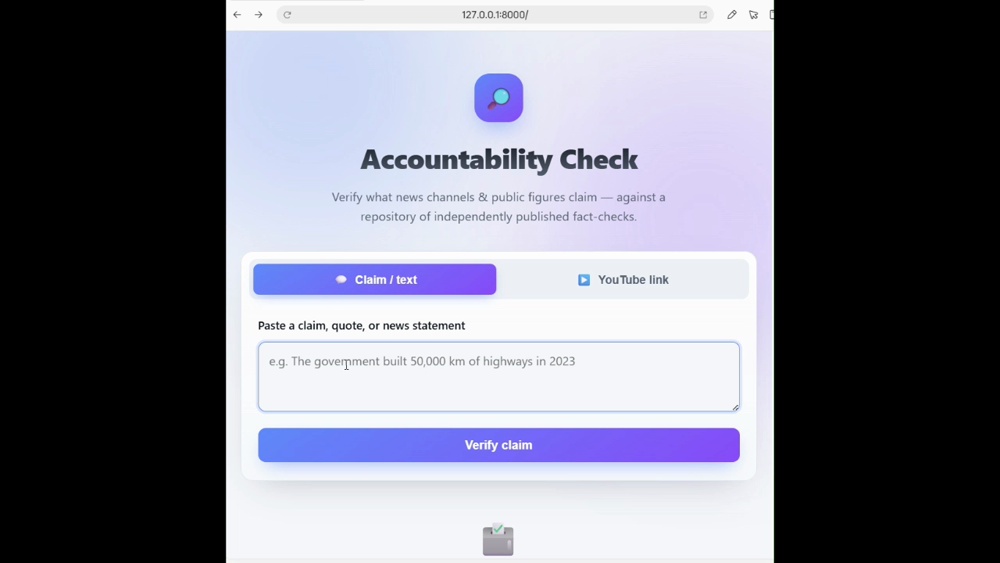
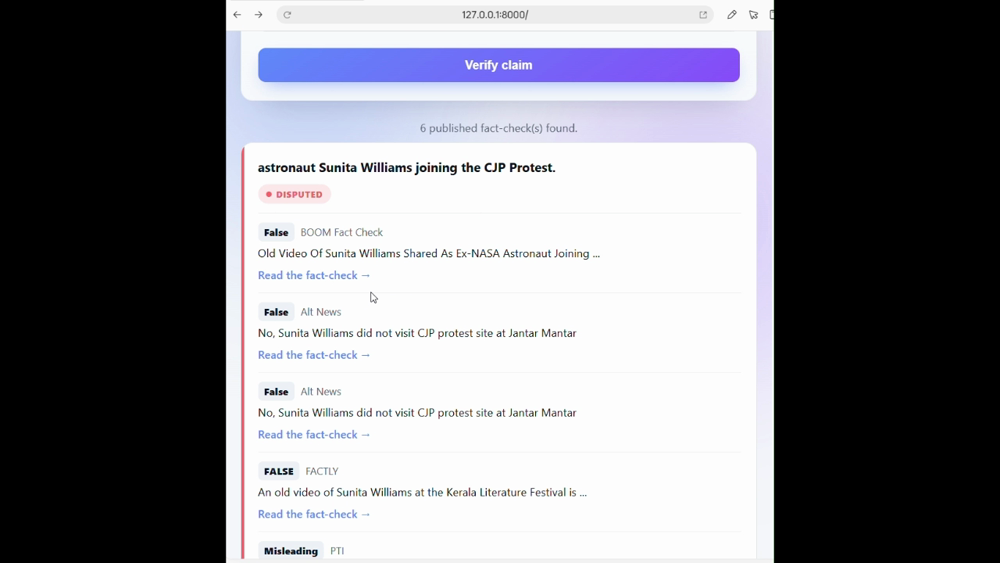
Show demo screenshot on the repo home page

Changed region(s): [[0.217, 0.0302, 0.775, 0.9964], [0.465, 0.9361, 0.527, 0.9964]]

diff --git a/README.md b/README.md
@@ -27,18 +27,11 @@ There are **two ways to use it**:
 
 ## 🎬 Demo
 
-Verifying a claim by pasting text and hitting **Verify claim**:
+Paste a claim, hit **Verify claim**, and get sourced fact-checks with verdicts:
 
-<video
-  src="https://github.com/abhiemj/viral-content-accountability-check/raw/main/docs/demo.mp4"
-  poster="https://github.com/abhiemj/viral-content-accountability-check/raw/main/docs/demo-poster.png"
-  controls
-  muted
-  width="100%">
-</video>
+[![Viral Content Accountability Check — demo](docs/demo-poster.png)](https://github.com/abhiemj/viral-content-accountability-check/raw/main/docs/demo.mp4)
 
-> If the player doesn't load in your browser,
-> [click here to watch the demo »](https://github.com/abhiemj/viral-content-accountability-check/raw/main/docs/demo.mp4)
+▶ **[Watch the full demo video »](https://github.com/abhiemj/viral-content-accountability-check/raw/main/docs/demo.mp4)**
 
 ---
 
